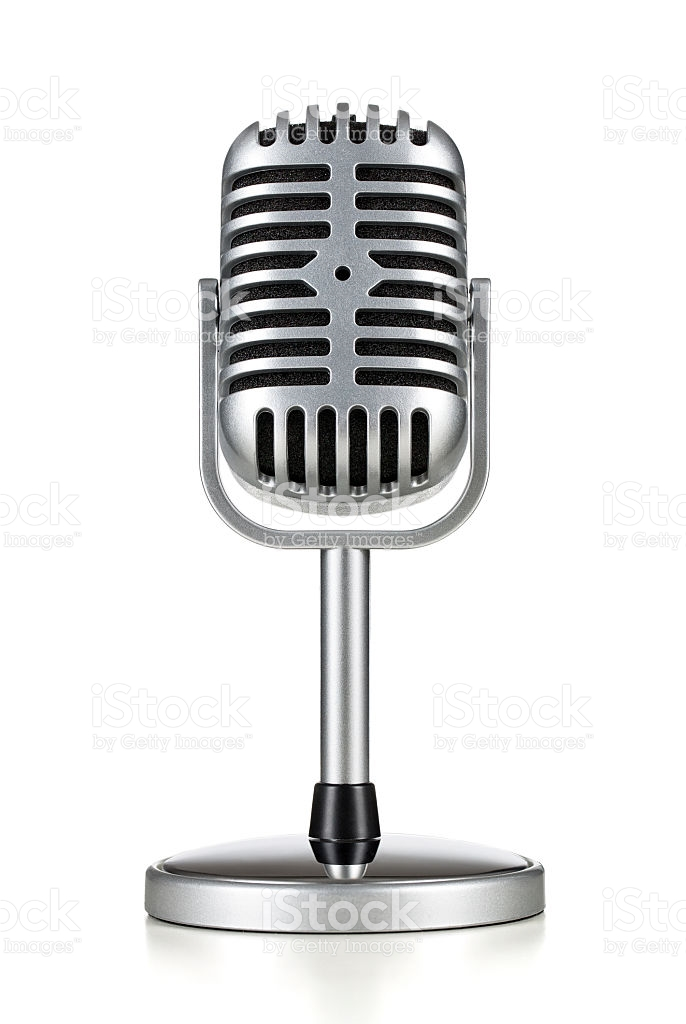
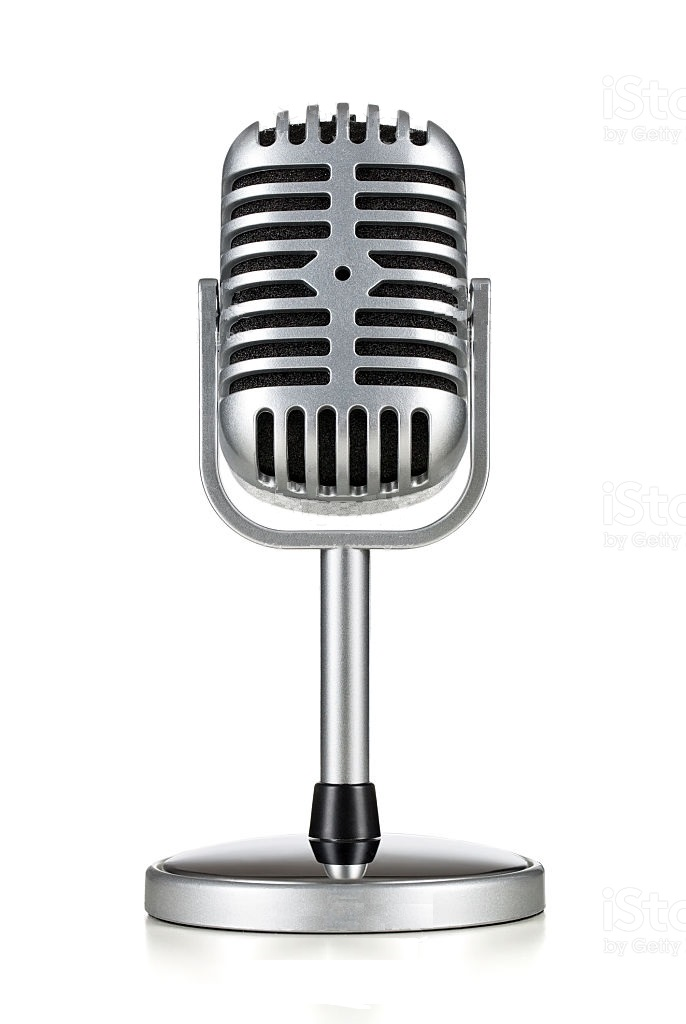
webpack updates for local images

diff --git a/lib/components/voiceToText.js b/lib/components/voiceToText.js
@@ -1,8 +1,8 @@
 import React from 'react';
 import SpeechRecognition from './SpeechRecognition';
 import SpokenWordCloud from './SpokenWordCloud';
-import annyang from 'annyang';
 import './styles/styles.css';
+import microphone from './img/vintagemicrophone.jpg';
 
 class VoiceToText extends React.Component {
     constructor(props) {
@@ -37,12 +37,10 @@ class VoiceToText extends React.Component {
     };
 
     render() {
-        const fontSizeMapper = word => Math.log2(word.value) * 5;
-        const font = "Helvetica Neue, Helvetica, Arial, sans-serif";
         return (
             <div>
                 <div className="container">
-                    <img className="image" src='http://media.istockphoto.com/photos/vintage-microphone-picture-id480843686' alt='vintage microphone' /><br/>
+                    <img className="image" src={ microphone } alt='vintage microphone' /><br/>
                     <div className="middle" onClick={this.getNoCommandShortListen}>
                         <div className="text"><p>Click then... <br/> speak vehicle year, make &amp; model</p></div>
                     </div>

diff --git a/lib/components/carQueryApi.js b/lib/components/carQueryApi.js
@@ -10,6 +10,7 @@ class CarQueryApi extends React.Component {
             makes: [],
             models: []
         };
+        this.space = ' ';
     }
 
     componentDidMount() {
@@ -22,7 +23,15 @@ class CarQueryApi extends React.Component {
         return (
             <div>
                 Here are the available trim packages.
-                <div>{this.state.makes.map((make) => { return <li key={make.model_id}>{ make.model_year + make.model_make_display + make.model_name + make.model_trim }</li>; } )}</div>
+                <div>{this.state.makes.map((make) => { return <li key={make.model_id}>{ 
+                    make.model_year 
+                    + this.space
+                    + make.model_make_display
+                    + this.space 
+                    + make.model_name 
+                    + this.space
+                    + make.model_trim }
+                    </li>; } )}</div>
             </div>
         );
     }

diff --git a/webpack.config.js b/webpack.config.js
@@ -9,7 +9,8 @@ const config = {
     module: {
         rules: [
             { test: /\.js$/, exclude: /node_modules/, use: 'babel-loader' },
-            { test: /\.css$/, loaders: ["style-loader", "css-loader"] }
+            { test: /\.css$/, loaders: ['style-loader', 'css-loader'] },
+            { test: /\.(png|jpe?g|gif|svg|woff|woff2|ttf|eot|ico)$/, use: ['file-loader']}
         ]
     }
 };

diff --git a/lib/components/spokenWordCloud.js b/lib/components/spokenWordCloud.js
@@ -1,4 +1,4 @@
-import React from 'react'
+import React from 'react';
 import WordCloud from 'react-d3-cloud';
 import './styles/styles.css';
 
